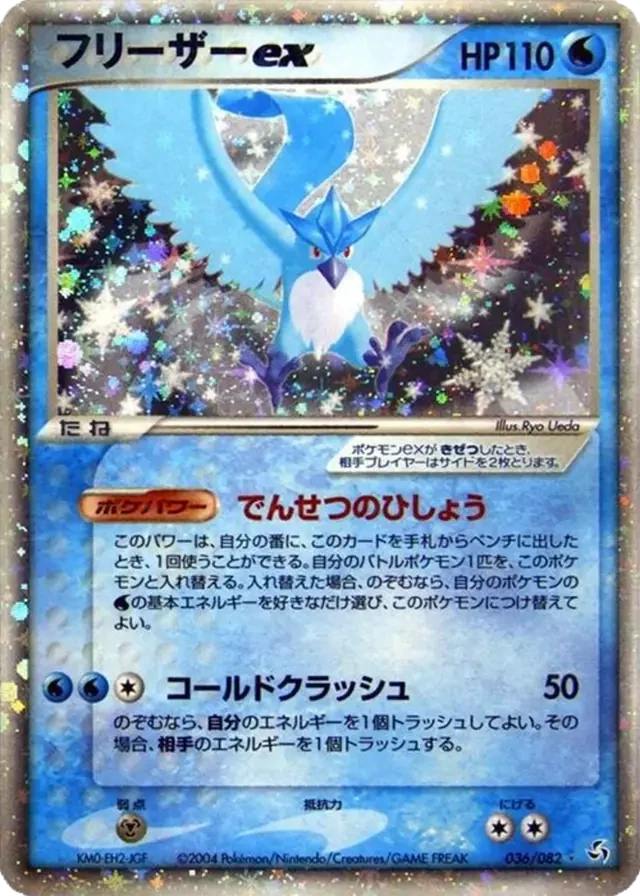
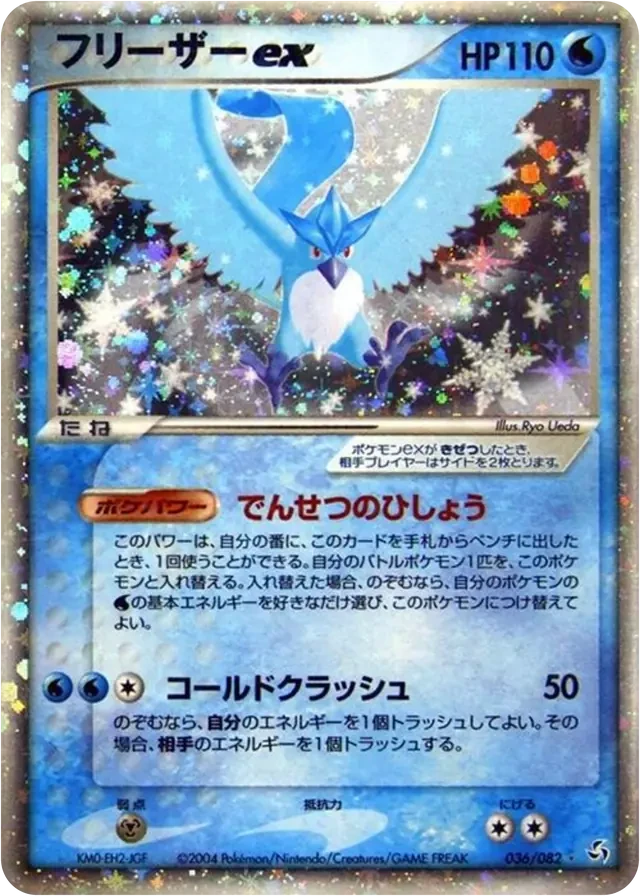
Card art: smooth geometric rounded corners
Claude-Session: https://claude.ai/code/session_01LYYBc3MFNvyohsNUBYqpW2

diff --git a/app/js/main.js b/app/js/main.js
@@ -107,7 +107,7 @@
   function sampleEntries() {
     const now = new Date(), Y = now.getFullYear(), M = now.getMonth(), D = now.getDate();
     const at = (mBack, day) => { const last = new Date(Y, M - mBack + 1, 0).getDate(); const d = mBack === 0 ? Math.min(day, D) : Math.min(day, last); return S.ymd(new Date(Y, M - mBack, d)); };
-    const art = k => ({ list: 'assets/card-art/' + k + '-sm.webp?v=2', detail: 'assets/card-art/' + k + '.webp?v=2' });
+    const art = k => ({ list: 'assets/card-art/' + k + '-sm.webp?v=3', detail: 'assets/card-art/' + k + '.webp?v=3' });
     return [
       { date: at(0, Math.ceil(D * .9)), type: 'sale', platform: 'eBay', name: 'Pikachu ex - 238/191 - SV08: Surging Sparks', amount: '255.00', fees: '33.80', ship: '6.70', condition: 'Near Mint', art: art('pikachu-ex') },
       { date: at(0, Math.ceil(D * .45)), type: 'purchase', platform: 'eBay', name: 'Gengar ex - 154/128 - ME: 30th Celebration', amount: '64.80', condition: 'Near Mint', art: art('gengar-ex') },
@@ -120,11 +120,11 @@
       { date: at(2, 4), type: 'purchase', platform: 'Whatnot', name: 'Houndoom - 4/64 - Neo Revelation', amount: '18.40', condition: 'Near Mint', art: { list: 'assets/card-art/houndoom-sm.webp', detail: 'assets/card-art/houndoom.webp' } },
       { date: at(3, 20), type: 'purchase', platform: 'Local game store', name: 'Surging Sparks booster bundle', amount: '32.39', condition: 'Sealed' },
       // HD samples with an artwork-only copy (wall), so Featured card shows full art in the preview
-      { date: at(1, 14), type: 'sale', platform: 'eBay', name: 'Mega Gengar ex - 284/217 - Ascended Heroes', amount: '421.50', fees: '27.83', ship: '1.27', condition: 'Near Mint', art: { list: 'assets/card-art/mega-gengar-ex-sm.webp?v=2', detail: 'assets/card-art/mega-gengar-ex.webp?v=2', wall: 'assets/card-art/mega-gengar-ex-wall.webp', focus: [50, 50] } },
-      { date: at(4, 2), type: 'purchase', platform: 'TCGplayer', name: 'Mega Gengar ex - 284/217 - Ascended Heroes', amount: '180.00', condition: 'Near Mint', art: { list: 'assets/card-art/mega-gengar-ex-sm.webp?v=2', detail: 'assets/card-art/mega-gengar-ex.webp?v=2', wall: 'assets/card-art/mega-gengar-ex-wall.webp', focus: [50, 50] } },
-      { date: at(0, Math.ceil(D * .6)), type: 'sale', platform: 'eBay', name: 'Articuno ex - 036/082 - Japanese', amount: '170.00', fees: '22.11', ship: '1.27', condition: 'Lightly Played', art: { list: 'assets/card-art/articuno-ex-sm.webp?v=2', detail: 'assets/card-art/articuno-ex.webp?v=2', wall: 'assets/card-art/articuno-ex-wall.webp', focus: [50, 62] } },
-      { date: at(2, 6), type: 'purchase', platform: 'Card Show', name: 'Articuno ex - 036/082 - Japanese', amount: '40.00', condition: 'Lightly Played', art: { list: 'assets/card-art/articuno-ex-sm.webp?v=2', detail: 'assets/card-art/articuno-ex.webp?v=2', wall: 'assets/card-art/articuno-ex-wall.webp', focus: [50, 62] } },
-      { date: at(1, 3), type: 'purchase', platform: 'TCGplayer', name: 'Magby - 186/182 - Paradox Rift', amount: '48.99', condition: 'Near Mint', art: { list: 'assets/card-art/magby-sm.webp?v=2', detail: 'assets/card-art/magby.webp?v=2', wall: 'assets/card-art/magby-wall.webp', focus: [52, 52] } }
+      { date: at(1, 14), type: 'sale', platform: 'eBay', name: 'Mega Gengar ex - 284/217 - Ascended Heroes', amount: '421.50', fees: '27.83', ship: '1.27', condition: 'Near Mint', art: { list: 'assets/card-art/mega-gengar-ex-sm.webp?v=3', detail: 'assets/card-art/mega-gengar-ex.webp?v=3', wall: 'assets/card-art/mega-gengar-ex-wall.webp', focus: [50, 50] } },
+      { date: at(4, 2), type: 'purchase', platform: 'TCGplayer', name: 'Mega Gengar ex - 284/217 - Ascended Heroes', amount: '180.00', condition: 'Near Mint', art: { list: 'assets/card-art/mega-gengar-ex-sm.webp?v=3', detail: 'assets/card-art/mega-gengar-ex.webp?v=3', wall: 'assets/card-art/mega-gengar-ex-wall.webp', focus: [50, 50] } },
+      { date: at(0, Math.ceil(D * .6)), type: 'sale', platform: 'eBay', name: 'Articuno ex - 036/082 - Japanese', amount: '170.00', fees: '22.11', ship: '1.27', condition: 'Lightly Played', art: { list: 'assets/card-art/articuno-ex-sm.webp?v=3', detail: 'assets/card-art/articuno-ex.webp?v=3', wall: 'assets/card-art/articuno-ex-wall.webp', focus: [50, 62] } },
+      { date: at(2, 6), type: 'purchase', platform: 'Card Show', name: 'Articuno ex - 036/082 - Japanese', amount: '40.00', condition: 'Lightly Played', art: { list: 'assets/card-art/articuno-ex-sm.webp?v=3', detail: 'assets/card-art/articuno-ex.webp?v=3', wall: 'assets/card-art/articuno-ex-wall.webp', focus: [50, 62] } },
+      { date: at(1, 3), type: 'purchase', platform: 'TCGplayer', name: 'Magby - 186/182 - Paradox Rift', amount: '48.99', condition: 'Near Mint', art: { list: 'assets/card-art/magby-sm.webp?v=3', detail: 'assets/card-art/magby.webp?v=3', wall: 'assets/card-art/magby-wall.webp', focus: [52, 52] } }
     ];
   }
 

diff --git a/tools/card-corners.py b/tools/card-corners.py
@@ -1,26 +1,36 @@
-import sys,glob,os
+import glob,os
 from PIL import Image,ImageDraw,ImageChops,ImageFilter
 src='artfix/orig';dst='artfix/out';os.makedirs(dst,exist_ok=True)
 def process(path):
     im=Image.open(path).convert('RGBA');w,h=im.size
-    # 1) whatever surrounds the card (white page, gray screenshot background) becomes transparent: flood from each corner
+    # find where the card is (anything that isn't the surrounding background), only to get its bounds
     rgb=im.convert('RGB');mark=rgb.copy();KEY=(255,0,255)
     for c in [(0,0),(w-1,0),(0,h-1),(w-1,h-1)]:
         if mark.getpixel(c)!=KEY: ImageDraw.floodfill(mark,c,KEY,thresh=40)
-    bg=Image.eval(ImageChops.difference(mark,Image.new('RGB',(w,h),KEY)).convert('L'),lambda v:255 if v>8 else 0)  # 255 = card
-    # pull the edge in a hair so no light fringe from the old background is left, then smooth it
-    k=5 if w>=300 else 3
-    bg=bg.filter(ImageFilter.MinFilter(k)).filter(ImageFilter.GaussianBlur(0.8 if w>=300 else 0.5))
-    bbox=bg.getbbox() or (0,0,w,h)
-    im=im.crop(bbox);bg=bg.crop(bbox);w,h=im.size
-    # 2) round the corners like a real card (radius about 4.6% of the width), smooth edge via 4x supersampling
-    r=round(w*0.046);S=4;m=Image.new('L',(w*S,h*S),0);ImageDraw.Draw(m).rounded_rectangle((0,0,w*S-1,h*S-1),radius=r*S,fill=255);m=m.resize((w,h),Image.LANCZOS)
-    alpha=ImageChops.multiply(m,bg)
-    a0=im.getchannel('A');im.putalpha(ImageChops.multiply(alpha,a0))
-    return im,bbox
+    card=Image.eval(ImageChops.difference(mark,Image.new('RGB',(w,h),KEY)).convert('L'),lambda v:255 if v>8 else 0)
+    # bounds = where most of a row/column is card (ignores the curved corners themselves)
+    px=card.load()
+    cols=[sum(1 for y in range(h) if px[x,y]) for x in range(w)];rows=[sum(1 for x in range(w) if px[x,y]) for y in range(h)]
+    L=next(x for x in range(w) if cols[x]>h*.6);R=max(x for x in range(w) if cols[x]>h*.6)+1
+    T=next(y for y in range(h) if rows[y]>w*.6);B=max(y for y in range(h) if rows[y]>w*.6)+1
+    im=im.crop((L,T,R,B));card=card.crop((L,T,R,B));w,h=im.size;cp=card.load()
+    # a clean, perfectly smooth rounded corner. Real cards are about 4.8% of the width; some scans have rounder corners,
+    # so grow the radius until no leftover background sits inside the curve at any corner
+    def leftovers(rr):
+        n=0;k=int(rr)+2
+        for cx,cy,sx,sy in ((rr,rr,0,0),(w-rr,rr,w-k,0),(rr,h-rr,0,h-k),(w-rr,h-rr,w-k,h-k)):
+            for y in range(sy,sy+k):
+                for x in range(sx,sx+k):
+                    inside=not((x<rr or x>w-rr)and(y<rr or y>h-rr)) or ((x+.5-cx)**2+(y+.5-cy)**2)<=(rr-1.2)**2
+                    if inside and not cp[x,y]:n+=1
+        return n
+    r=w*0.056  # a touch rounder than a real card (4.8%), so no scan's own corner pokes outside the curve
+    S=8;m=Image.new('L',(w*S,h*S),0);ImageDraw.Draw(m).rounded_rectangle((S*1.0,S*1.0,w*S-S*1.0-1,h*S-S*1.0-1),radius=r*S,fill=255)
+    m=m.resize((w,h),Image.LANCZOS)
+    im.putalpha(ImageChops.multiply(m,im.getchannel('A')))
+    return im,(L,T,R,B,round(r/w*100,2))
 for f in sorted(glob.glob(src+'/*.webp')):
     n=os.path.basename(f)
     if '-wall' in n or n.startswith('houndoom'): continue
-    im,bbox=process(f)
-    im.save(os.path.join(dst,n),'WEBP',quality=88,method=6)
-    print(n,Image.open(f).size,'->',im.size,'crop',bbox)
+    im,b=process(f);im.save(os.path.join(dst,n),'WEBP',quality=90,method=6,exact=True)
+    print(n,Image.open(f).size,'->',im.size,b)

diff --git a/DEVELOPMENT.md b/DEVELOPMENT.md
@@ -489,3 +489,4 @@ Tests: tools/t89-board-in-app.js, tools/t90-board-nav.js, tools/perf-board-in-ap
 - v28.8: desktop Card Board has 34px between the top bar and the widgets (was 18; phones unchanged), 20px under the quiet line. On free, when Stories / Ask / Share are icon-only (761–1340px) the lock shows as a small badge on each button's corner.
 - v28.9: desktop gap under the Card Board top bar locked at 60px (Nick's call: few widgets, keep it simple and calm).
 - v28.10: every card image (list and detail) now has transparent rounded corners, so no white or gray shows outside the card edge on any background. tools/card-corners.py: flood-fills whatever surrounds the card from each corner (threshold 40), pulls the edge in 1–2px to drop the light fringe, smooths it, and adds a rounded-corner mask (4.6% of the width). The art service should run the same step on every image it saves (TODO after the Cloudflare move). Sample entries load the images with `?v=2` so browsers fetch the fixed copies.
+- v28.11: card corners redone as clean geometric curves. The flood fill is now only used to find the card's edges; the corner itself is a perfect rounded rectangle (5.6% of the width, a touch rounder than a real card so no scan's own corner pokes out), inset 1px and drawn 8x larger then scaled down, so it's smooth instead of following the old jagged background edge. Sample art loads with `?v=3`.
